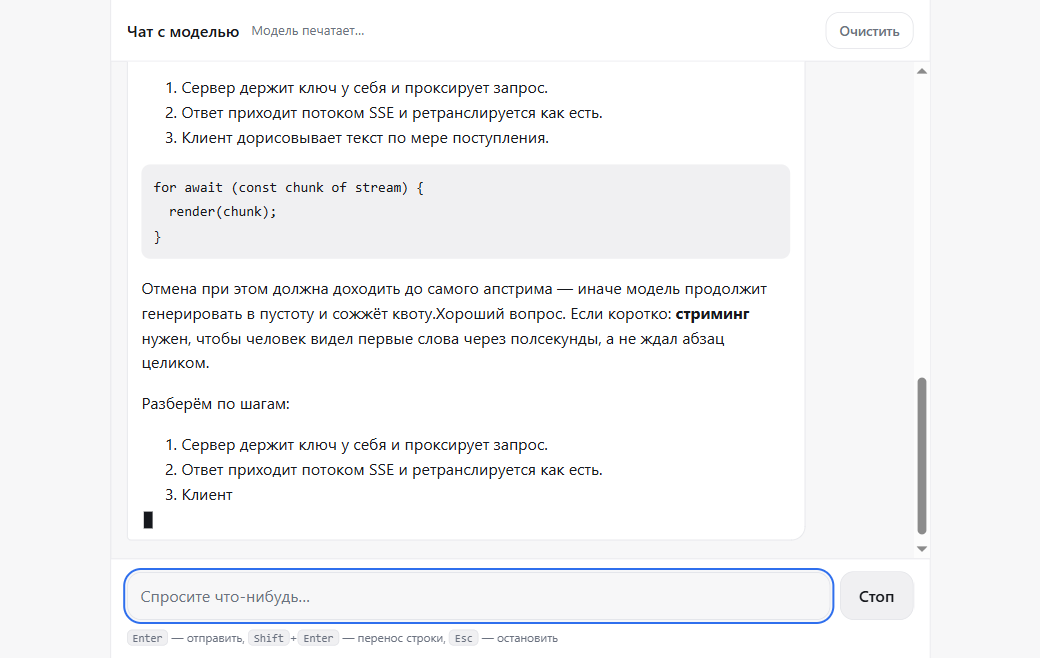
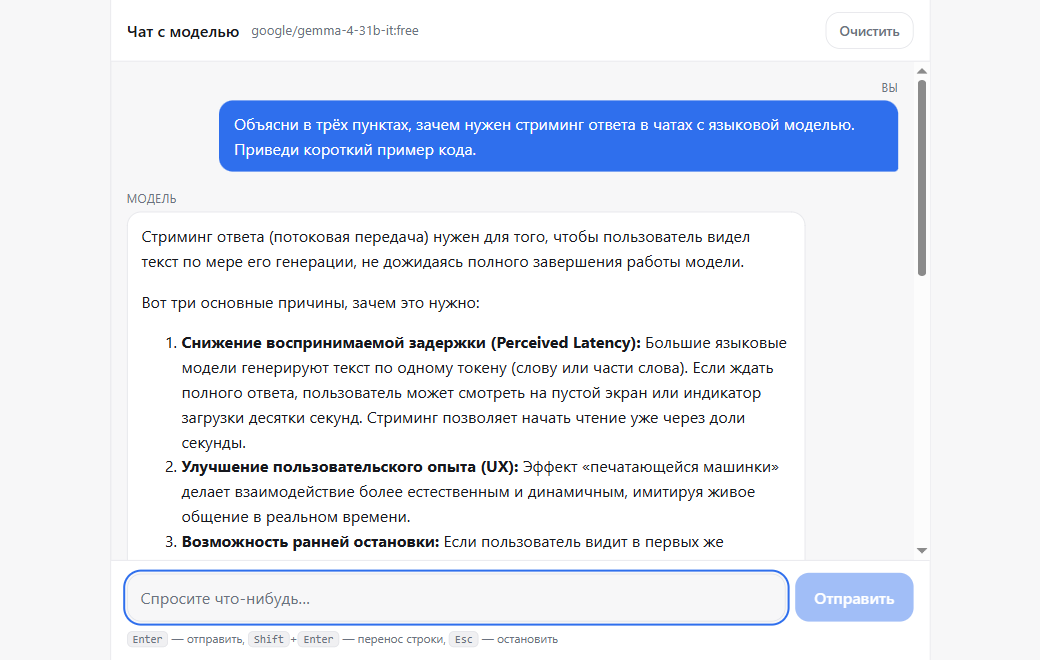
fix: модель по умолчанию уехала из бесплатного каталога
deepseek-chat-v3-0324:free стала платной — поймано первым же запуском
на живом ключе. Взял актуальную из /api/v1/models. Скриншот стриминга
заменён на настоящий ответ модели, в README добавлена памятка на случай
повторения (каталог :free меняется, это норма).

diff --git a/README.md b/README.md
@@ -27,6 +27,15 @@ npm run dev
 
 Нужен Node ≥ 20.6 (используется `--env-file`). Проверялось на Node 23.
 
+> **Если модель ответила «This model is unavailable for free»** — значит
+> она уехала из бесплатного каталога (так уже случилось с
+> `deepseek-chat-v3-0324` прямо по ходу работы). Возьмите любую живую:
+> ```bash
+> curl -s https://openrouter.ai/api/v1/models \
+>   | jq -r '.data[] | select(.id | endswith(":free")) | .id'
+> ```
+> и впишите в `OPENROUTER_MODEL`. Правка кода не нужна.
+
 ### Посмотреть, как выглядят аварии, — без ключа
 
 В репозитории есть поддельный OpenRouter. Он нужен, потому что 429, таймаут
@@ -277,6 +286,27 @@ StrictMode updater вызывается дважды — запрос уходи
 непроверяемое: каталог `:free`-моделей OpenRouter меняется, и модель из
 обучающих данных может уже не существовать. Вынес в `OPENROUTER_MODEL`,
 чтобы заменить можно было без правки кода.
+
+И это подтвердилось сразу же, как только дело дошло до живого ключа.
+Предложенная ИИ `deepseek/deepseek-chat-v3-0324:free` вернула:
+
+> This model is unavailable for free. The paid version is available now —
+> use this slug instead: `deepseek/deepseek-chat-v3-0324`
+
+Модель перестала быть бесплатной. Актуальный список я взял не из головы,
+а запросом к каталогу — в нём на тот момент было 20 моделей с суффиксом
+`:free`:
+
+```bash
+curl -s https://openrouter.ai/api/v1/models \
+  | jq -r '.data[] | select(.id | endswith(":free")) | .id'
+```
+
+Поставил `google/gemma-4-31b-it:free`. Показательно, что поймала это не
+проверка кода, а первый же запуск на настоящем ключе: ошибка была не в
+логике, а в факте о внешнем мире — ровно там, где ИИ ошибается увереннее
+всего. Обработка при этом сработала как задумано: пользователь увидел
+текст ошибки от апстрима, а не вечный спиннер.
 
 Общий вывод: ИИ хорошо пишет то, что уже решено, и уверенно ошибается
 там, где надо было проверить — в разметке, в краевых значениях и в фактах
